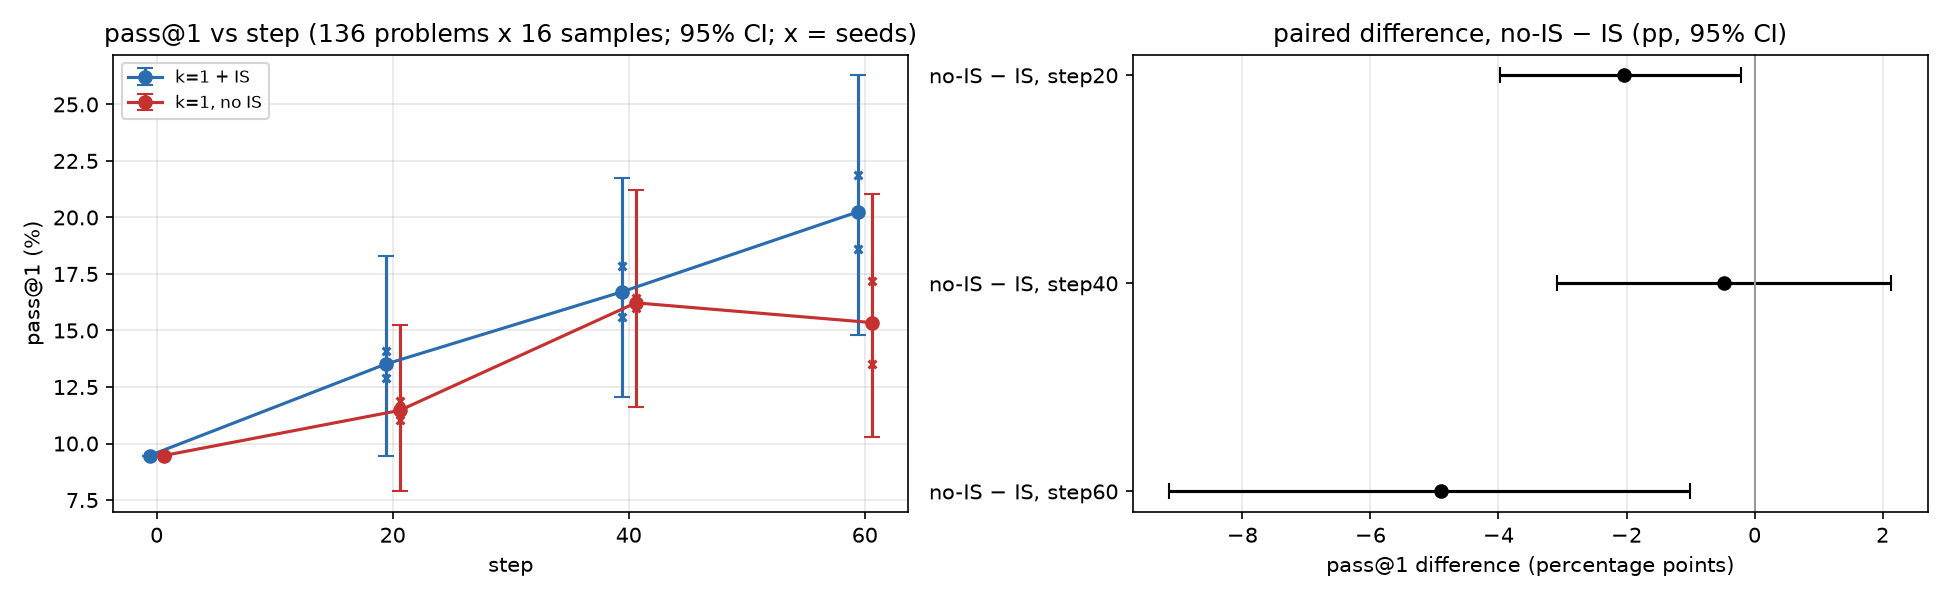
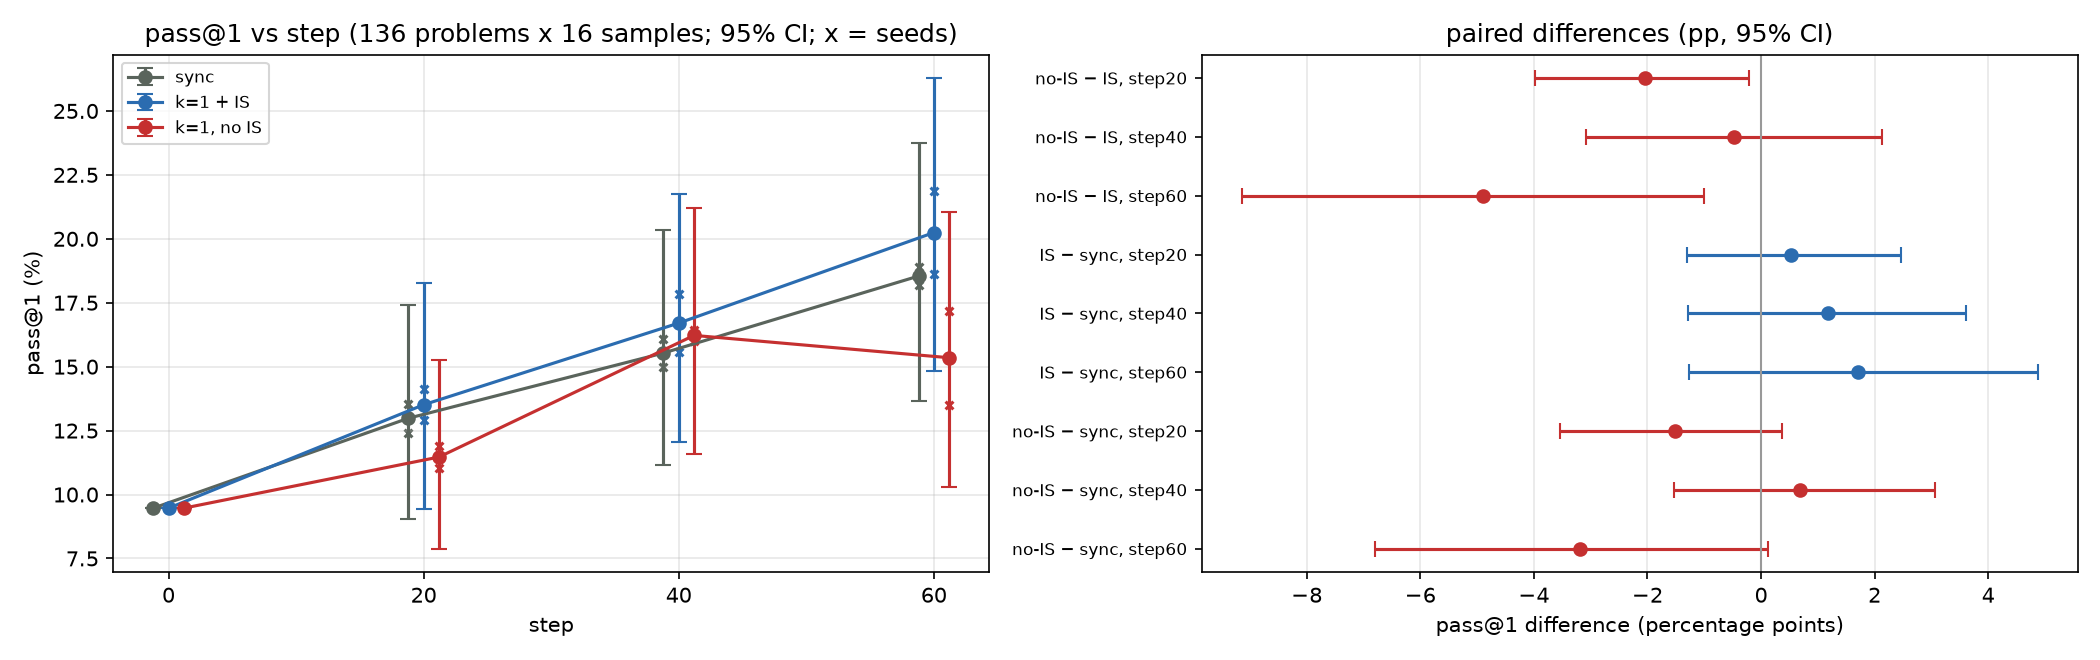
Add 60-step sync baseline: sync vs lag 1 +/- IS at steps 20/40/60, speed, cost; regenerate long_* charts with sync

diff --git a/docs/index.html b/docs/index.html
@@ -206,12 +206,12 @@ pre {
 <section id="tldr">
 <h2>TL;DR</h2>
 <div class="callout"><ul>
-<li><strong>Async at lag 1 is about 1.7× faster than sync, with no loss of accuracy.</strong> It takes 204–211 s per training step, against 359.7 s for sync, and step-20 pass@1 shows no detectable difference (+1.3 pp, 95% CI −1.4 to +4.2).</li>
+<li><strong>Async at lag 1 is about 1.7× faster than sync, with no loss of accuracy, over 60 steps.</strong> With IS it took 186.6 s per training step against 321.1 s for sync (1.72×; 3.0–3.2 h vs 5.3–5.4 h per run). Step-60 pass@1 was <strong>20.2%</strong> against <strong>18.5%</strong> for sync, a difference of +1.7 pp (95% CI −1.3 to +4.9), not significant.</li>
 <li><strong>Lag 1 is as fast as lag 2, because the learner is the bottleneck.</strong> Training a batch (187–194 s) takes longer than generating one (154–158 s), so a second version of lag buys nothing. Accuracy at lag 1 and lag 2 is equivalent within ±3 pp.</li>
-<li><strong>Sync vs async: compared at step 20 only, so far.</strong> In the 20-step rounds, both async arms, with IS and without IS, are within noise of sync on step-20 pass@1 and about 1.7× faster (1.73–1.86× by arm). A 60-step sync baseline has not yet run, so the 60-step round compares IS vs no IS only.</li>
-<li><strong>Keep the importance-sampling (IS) correction.</strong> Over 60 steps (IS vs no IS; no sync baseline yet), the arm with truncated IS reached <strong>20.2%</strong> pass@1, against <strong>15.4%</strong> without it (−4.9 pp, 95% CI −9.2 to −1.0).</li>
+<li><strong>Async + IS matched or beat sync at every checkpoint.</strong> With the 60-step sync baseline, lag 1 + IS − sync is +0.5 pp at step 20 (equivalent at ±3 pp), +1.2 pp at step 40 and +1.7 pp at step 60. Every CI includes zero. In the 20-step rounds, both async arms were also within noise of sync and 1.73–1.86× faster.</li>
+<li><strong>Keep the importance-sampling (IS) correction.</strong> Over 60 steps, the arm with truncated IS reached <strong>20.2%</strong> pass@1, against <strong>15.4%</strong> without it (−4.9 pp, 95% CI −9.2 to −1.0) and 18.5% for sync. No IS − sync was −3.2 pp (95% CI −6.8 to +0.1).</li>
 <li><strong>Without IS there was no collapse, but the arm stopped improving after step 40.</strong> Policy drift came in one short, self-limiting episode per seed, and train reward kept rising. Eval accuracy, though, went from 16.2% at step 40 to 15.4% at step 60, while the IS arm went from 16.7% to 20.2%.</li>
-<li><strong>Total cost: about $162.5</strong> over four rounds: first study ≈ $22.1, lag-2 round $64.08, lag-1 20-step round $21.45, lag-1 60-step round $54.91.</li>
+<li><strong>Total cost: about $204.0</strong> over five budgets: first study ≈ $22.1, lag-2 round $64.08, lag-1 20-step round $21.45, lag-1 60-step round $54.91, 60-step sync baseline $41.54.</li>
 </ul></div>
 </section>
 
@@ -226,11 +226,12 @@ pre {
 <tr><td>async lag 2, no IS</td><td>20</td><td>12.98% [8.46, 18.34]</td><td>198.5</td><td>1.83× same VM</td></tr>
 <tr><td>async lag 1 + IS</td><td>20</td><td>12.80% [8.66, 17.58]</td><td>208.5</td><td>≈ 1.73× (across VMs)</td></tr>
 <tr><td>async lag 1, no IS</td><td>20</td><td>14.50% [9.74, 19.90]</td><td>207.4</td><td>≈ 1.73× (across VMs)</td></tr>
-<tr><td>async lag 1 + IS</td><td>60</td><td><strong>20.24% [14.82, 26.29]</strong></td><td>186.6</td><td>no sync baseline (yet)</td></tr>
-<tr><td>async lag 1, no IS</td><td>60</td><td>15.35% [10.29, 21.05]</td><td>178.8</td><td>no sync baseline (yet)</td></tr>
+<tr><td>sync</td><td>60</td><td>18.54% [13.65, 23.74]</td><td>321.1</td><td>1×</td></tr>
+<tr><td>async lag 1 + IS</td><td>60</td><td><strong>20.24% [14.82, 26.29]</strong></td><td>186.6</td><td>1.72× (same VM type and zone)</td></tr>
+<tr><td>async lag 1, no IS</td><td>60</td><td>15.35% [10.29, 21.05]</td><td>178.8</td><td>1.80× (same VM type and zone)</td></tr>
 </tbody></table></div>
-<p class="footnote">A 60-step sync baseline has not yet run, so the 60-step rows compare IS vs no IS only. Steps get faster over a long run as answers get shorter, so 60-step s/step is not comparable with the 20-step rows.</p>
-<figure class="figure"><img src="charts/long_pass1.png" alt="pass@1 at steps 0, 20, 40 and 60 per arm, and paired no-IS minus IS differences" loading="lazy"/><figcaption class="caption">pass@1 at steps 0, 20, 40 and 60 for lag 1 with and without IS (95% CI; x = seeds), and the paired no-IS − IS difference at each eval.</figcaption></figure>
+<p class="footnote">The 60-step speed-ups compare the 60-step rows with each other. Sync ran on a Flex v6e-4 in europe-west4-a, the same VM type and zone as the lag-1 runs, one day later. Steps get faster over a long run as answers get shorter, so 60-step s/step is not comparable with the 20-step rows.</p>
+<figure class="figure"><img src="charts/long_pass1.png" alt="pass@1 at steps 0, 20, 40 and 60 for sync and lag 1 with and without IS, and paired differences" loading="lazy"/><figcaption class="caption">pass@1 at steps 0, 20, 40 and 60 for sync and for lag 1 with and without IS (95% CI; x = seeds), and the paired differences (no IS − IS, IS − sync, no IS − sync) at each eval.</figcaption></figure>
 <figure class="figure"><img src="charts/k1_speed_idle.png" alt="Seconds per step and idle fractions for all ten 20-step runs" loading="lazy"/><figcaption class="caption">Seconds per step and idle fractions for all ten 20-step runs, grouped by VM pair. Async at lag 1 and lag 2 lands at about the same speed.</figcaption></figure>
 <figure class="figure"><img src="charts/k1_lag_kl.png" alt="Policy versions behind per step, and KL between sampler and trainer" loading="lazy"/><figcaption class="caption">Left: policy versions behind per step (sync 0, lag 1, lag 2). Middle and right: KL(sampler‖trainer) per step for the no-IS arms and for the IS arms and sync.</figcaption></figure>
 </section>
@@ -297,18 +298,22 @@ pre {
 
 <section id="round4">
 <p class="eyebrow">Round 4</p>
-<h2>60 steps at lag 1: IS vs no IS</h2>
-<p>The two lag-1 arms for 60 steps, 2 seeds each, on one Flex-start v6e-4, with evals at steps 20, 40 and 60.</p>
+<h2>60 steps: sync vs lag 1 + IS vs lag 1, no IS</h2>
+<p>The two lag-1 arms for 60 steps, 2 seeds each, on one Flex-start v6e-4, with evals at steps 20, 40 and 60. A sync baseline was added afterwards: the same 60 steps, evals and settings, with plan90's sync config, 2 seeds, on a Flex-start v6e-4 in the same zone.</p>
 <div class="table-wrap"><table class="nowrap">
 <thead><tr><th>Arm</th><th>Step 20</th><th>Step 40</th><th>Step 60</th></tr></thead>
 <tbody>
+<tr><td>sync</td><td>12.98%</td><td>15.53%</td><td>18.54%</td></tr>
 <tr><td>lag 1 + IS</td><td>13.51%</td><td>16.70%</td><td><strong>20.24%</strong></td></tr>
 <tr><td>lag 1, no IS</td><td>11.47%</td><td>16.22%</td><td>15.35%</td></tr>
+<tr><td>IS − sync</td><td>+0.5 pp [−1.3, +2.5]</td><td>+1.2 pp [−1.3, +3.6]</td><td>+1.7 pp [−1.3, +4.9]</td></tr>
+<tr><td>no IS − sync</td><td>−1.5 pp [−3.5, +0.4]</td><td>+0.7 pp [−1.5, +3.1]</td><td>−3.2 pp [−6.8, +0.1]</td></tr>
 <tr><td>no IS − IS</td><td>−2.0 pp [−4.0, −0.2]</td><td>−0.5 pp [−3.1, +2.1]</td><td><strong>−4.9 pp [−9.2, −1.0]</strong></td></tr>
 </tbody></table></div>
 <p class="takeaway">Without IS the drift did not become instability. Both no-IS seeds had one KL excursion at steps 32–40 (peaks 4.6e-3 and 1.8e-3), recovered within about 5 steps, and went past the gradient clip on only 3 of 120 steps. But the no-IS arm plateaued after step 40, while the IS arm kept gaining, reaching +10.8 pp over base. Keep truncated IS.</p>
-<figure class="figure"><img src="charts/long_kl_ratio_grad.png" alt="KL, max IS ratio and gradient norm per step over 60 steps" loading="lazy"/><figcaption class="caption">KL(sampler‖trainer), max IS ratio and pre-clip gradient norm per step (dotted: clip at 1.0). Red = no IS, blue = IS; solid = seed 0, dashed = seed 1.</figcaption></figure>
-<figure class="figure"><img src="charts/long_speed.png" alt="Seconds per step and wall-clock to N steps, 60-step runs" loading="lazy"/><figcaption class="caption">Seconds per step and wall-clock to N steps, all four runs on one VM.</figcaption></figure>
+<p class="takeaway">Sync learned steadily, reaching 18.5% at step 60 (+9.1 pp over base) with a flat KL (3.5–4.7e-4), slightly behind lag 1 + IS at every checkpoint, though never significantly. It took 321 s/step against 187 s/step for lag 1 + IS: 5.3–5.4 h per run against 3.0–3.2 h, 1.72× faster for async.</p>
+<figure class="figure"><img src="charts/long_kl_ratio_grad.png" alt="KL, max IS ratio and gradient norm per step over 60 steps" loading="lazy"/><figcaption class="caption">KL(sampler‖trainer), max IS ratio and pre-clip gradient norm per step (dotted: clip at 1.0). Grey = sync, blue = IS, red = no IS; solid = seed 0, dashed = seed 1.</figcaption></figure>
+<figure class="figure"><img src="charts/long_speed.png" alt="Seconds per step and wall-clock to N steps, 60-step runs" loading="lazy"/><figcaption class="caption">Seconds per step and wall-clock to N steps for all six 60-step runs. The four lag-1 runs shared one VM; the two sync runs ran a day later on a VM of the same type in the same zone.</figcaption></figure>
 </section>
 
 <section id="details">
@@ -322,7 +327,7 @@ pre {
 <li><strong>Drift is not tied to a seed.</strong> In round 3, no-IS seed 0 began drifting at step 17; in round 4 it was flat until step 31, and seed 1, which never drifted in 20 steps, drifted at steps 32–40.</li>
 <li><strong>Truncation weakens the reward signal.</strong> 87% of base-model samples hit the 6,144-token cap in the pilot profile, and 67–75% of round-2 training rollouts were truncated and earned zero reward.</li>
 <li><strong>Answer length is a confounder.</strong> By step 60, no-IS seed 0's eval answers averaged 2,601 tokens (14% truncated), against 5,258 tokens (73%) at step 40, and its pass@1 fell from 16.0% to 13.5%. IS seed 0 also shortened (4,492 tokens, 19% truncated) but gained accuracy (17.8% to 21.9%). The eval cannot tell "learned to be concise" from "learned to stop early".</li>
-<li><strong>Speed across VMs.</strong> Round 2 ran on Spot VMs in two regions; rounds 3 and 4 on one Flex VM on other days. Speed is compared within a VM wherever possible. The lag-1 vs sync ratio (≈ 1.73×) crosses VMs. The two sync runs agreed to 0.1% across regions (359.6 vs 360.0 s/step), so the VM effect looks small.</li>
+<li><strong>Speed across VMs.</strong> Round 2 ran on Spot VMs in two regions; rounds 3 and 4 on one Flex VM on other days. The 60-step sync baseline ran a day after round 4 on a Flex VM of the same type and zone, so the 60-step sync vs async speed-up crosses machines; its sync s/step at steps 1–20 (about 350 s) matches round 2's sync (360 s) within 3%. Speed is compared within a VM wherever possible. The lag-1 vs sync ratio (≈ 1.73×) crosses VMs. The two sync runs agreed to 0.1% across regions (359.6 vs 360.0 s/step), so the VM effect looks small.</li>
 <li><strong>Async run-to-run noise.</strong> async-IS seed 1 was 9% slower than its no-IS partner on the same VM. IS adds no compute, and that run trained 4% more tokens, so treat 9% as the noise floor for async s/step.</li>
 <li><strong>First study.</strong> Its zone was asia-northeast1-b because the preferred zones had no capacity. About 88% of samples hit the 3,072-token cap, and only 3–4 of 16 prompt groups per batch carried gradient. The eager learner ran at about 1,650 tok/s (about 3% MFU), because <span class="mono">torch.compile</span> failed on a view-stride error in Qwen3.5's Gated DeltaNet layers.</li>
 <li><strong>Sampling seeds.</strong> vLLM on TorchTPU has no per-request seeds, so runs are reproducible only up to batch-scheduling nondeterminism.</li>
@@ -338,14 +343,16 @@ pre {
 <tr><td>2. 20 steps, lag 2 (plan90)</td><td>Spot v6e-4: asia-south1-c $6.25/h, europe-west4-a $7.13/h</td><td>5.65 + 3.76</td><td>$64.08</td><td>$90</td></tr>
 <tr><td>3. 20 steps, lag 1 (plan25k1)</td><td>Flex-start v6e-4, europe-west4-a, $5.40/h</td><td>3.89</td><td>$21.45</td><td>$25</td></tr>
 <tr><td>4. 60 steps, lag 1 (plan65k1long)</td><td>Flex-start v6e-4, europe-west4-a, $5.40/h</td><td>10.16</td><td>$54.91</td><td>$65</td></tr>
-<tr><td><strong>Total</strong></td><td></td><td></td><td><strong>≈ $162.5</strong></td><td></td></tr>
+<tr><td>4b. 60 steps, sync baseline (plan55sync60)</td><td>Flex-start v6e-4, europe-west4-a, $5.40/h</td><td>7.68</td><td>$41.54</td><td>$55</td></tr>
+<tr><td><strong>Total</strong></td><td></td><td></td><td><strong>≈ $204.0</strong></td><td></td></tr>
 </tbody></table></div>
-<p>Rounds 2–4 come from each round's GCS spend ledger. Create-to-delete times give $21.33 for round 3 and $54.89 for round 4. Capacity requests that were never granted cost $0. Everything was deleted except the compile-cache bucket (about $0.08/month).</p>
+<p>Rounds 2–4 come from each round's GCS spend ledger. Create-to-delete times give $21.33 for round 3, $54.89 for round 4 and $41.49 for the sync baseline. Capacity requests that were never granted cost $0. Everything was deleted except the compile-cache bucket (about $0.08/month).</p>
 <ul>
 <li><strong>Round 1:</strong> setup, smoke tests, debugging and learner benchmarks ≈ $4.8; 4 training runs plus 9 eval passes ≈ $17.0. Per 40-step run on 2 chips: sync ≈ $3.9, async ≈ $2.5.</li>
 <li><strong>Round 2:</strong> asia-south1-c VM $35.32 (pilot and base eval ≈ $8.3, OOM restart ≈ $0.9, pair p2 ≈ $14.4, pair p3 ≈ $11.7); europe-west4-a VM $26.79 (waiting for the pilot and the OOM restart ≈ $10.0, pair p1 ≈ $16.8); aborted early boots $0.98; GKE fallback cluster $0.97; CPU dry run $0.02.</li>
 <li><strong>Round 3:</strong> Flex VM 3.89 h, $21.03 (setup ≈ $0.8, pair pA ≈ $9.9, pair pB ≈ $10.3); a Spot VM deleted by the budget guard before setup finished, $0.29.</li>
 <li><strong>Round 4:</strong> Flex VM 10.16 h, $54.89 (setup ≈ $0.9, pair pA ≈ $25.6 over 4.73 h, pair pB ≈ $27.7 over 5.13 h, gaps and teardown ≈ $0.7). Each pair includes 60 steps plus 3 evals per run.</li>
+<li><strong>Round 4b (sync baseline):</strong> Flex VM 7.68 h, $41.49 (setup ≈ $1.2; pair ≈ $39.9 over 7.38 h, which is 5.4 h of training, then 1.2–2.0 h for each run's 3 evals; teardown ≈ $0.4). The cost model priced the pair at a P90 of $44.75 before launch.</li>
 </ul>
 </details>
 
@@ -421,6 +428,9 @@ pre {
 <div class="table-wrap"><table class="nowrap">
 <thead><tr><th>Arm</th><th>Step 20</th><th>Step 40</th><th>Step 60</th></tr></thead>
 <tbody>
+<tr><td>sync</td><td>12.98% [9.03, 17.39]</td><td>15.53% [11.14, 20.34]</td><td>18.54% [13.65, 23.74]</td></tr>
+<tr><td>…seeds (s0, s1)</td><td>13.56, 12.41</td><td>16.08, 14.98</td><td>18.89, 18.20</td></tr>
+<tr><td>…gain over base</td><td>+3.5 pp [+1.4, +5.7]</td><td>+6.1 pp [+3.8, +8.6]</td><td>+9.1 pp [+6.2, +12.2]</td></tr>
 <tr><td>lag 1 + IS</td><td>13.51% [9.44, 18.29]</td><td>16.70% [12.04, 21.76]</td><td>20.24% [14.82, 26.29]</td></tr>
 <tr><td>…seeds (s0, s1)</td><td>14.11, 12.91</td><td>17.83, 15.58</td><td>21.88, 18.61</td></tr>
 <tr><td>…gain over base</td><td>+4.0 pp [+1.8, +6.5]</td><td>+7.2 pp [+4.4, +10.5]</td><td>+10.8 pp [+7.2, +14.9]</td></tr>
@@ -428,21 +438,25 @@ pre {
 <tr><td>…seeds (s0, s1)</td><td>11.03, 11.90</td><td>15.99, 16.45</td><td>13.51, 17.19</td></tr>
 <tr><td>…gain over base</td><td>+2.0 pp [+0.1, +3.9]</td><td>+6.8 pp [+4.3, +9.5]</td><td>+5.9 pp [+2.3, +9.5]</td></tr>
 </tbody></table></div>
-<p class="footnote">90% CIs for no IS − IS: [−3.7, −0.5] at step 20, [−2.7, +1.7] at step 40 (equivalent at ±3 pp), [−8.5, −1.6] at step 60. Per seed at step 60: −8.4 pp (seed 0), −1.4 pp (seed 1).</p>
+<p class="footnote">90% CIs for no IS − IS: [−3.7, −0.5] at step 20, [−2.7, +1.7] at step 40 (equivalent at ±3 pp), [−8.5, −1.6] at step 60. Per seed at step 60: −8.4 pp (seed 0), −1.4 pp (seed 1). 90% CIs for IS − sync: [−1.0, +2.1] at step 20 (equivalent at ±3 pp), [−0.9, +3.2] at step 40, [−0.8, +4.3] at step 60. 90% CIs for no IS − sync: [−3.2, +0.1] at step 20, [−1.2, +2.6] at step 40 (equivalent at ±3 pp), [−6.2, −0.3] at step 60.</p>
 <h3>Stability per run</h3>
 <div class="table-wrap"><table class="nowrap">
 <thead><tr><th>Run</th><th>KL 1–10</th><th>11–20</th><th>21–40</th><th>41–60</th><th>Max KL (step)</th><th>KL at 60</th><th>Max IS ratio (step)</th><th>Clip hits / 60</th><th>Max grad norm</th><th>Entropy 1–10 → 41–60</th><th>Train reward 1–10 → 41–60</th></tr></thead>
 <tbody>
+<tr><td>lsync-s0</td><td>3.7e-4</td><td>3.5e-4</td><td>3.7e-4</td><td>3.7e-4</td><td>4.7e-4 (60)</td><td>4.7e-4</td><td>4.90 (60)</td><td>0</td><td>0.91</td><td>0.359 → 0.348</td><td>0.263 → 0.455</td></tr>
+<tr><td>lsync-s1</td><td>3.7e-4</td><td>3.7e-4</td><td>3.6e-4</td><td>3.6e-4</td><td>4.0e-4 (7)</td><td>3.6e-4</td><td>2.94 (25)</td><td>2 (47, 48)</td><td>1.25</td><td>0.363 → 0.323</td><td>0.228 → 0.391</td></tr>
 <tr><td>lk1is-s0</td><td>3.8e-4</td><td>3.9e-4</td><td>3.9e-4</td><td>4.7e-4</td><td>5.7e-4 (44)</td><td>5.2e-4</td><td>2.85 (4)</td><td>0</td><td>0.96</td><td>0.361 → 0.382</td><td>0.252 → 0.499</td></tr>
 <tr><td>lk1is-s1</td><td>3.7e-4</td><td>3.7e-4</td><td>3.4e-4</td><td>3.6e-4</td><td>4.2e-4 (46)</td><td>3.6e-4</td><td>6.80 (59)</td><td>0</td><td>0.82</td><td>0.351 → 0.256</td><td>0.216 → 0.416</td></tr>
 <tr><td>lk1nois-s0</td><td>3.8e-4</td><td>3.7e-4</td><td><strong>1.0e-3</strong></td><td>5.1e-4</td><td><strong>4.6e-3 (37)</strong></td><td>8.6e-4</td><td><strong>11.8 (37)</strong></td><td><strong>2</strong> (36, 37)</td><td><strong>1.31</strong></td><td>0.358 → 0.282</td><td>0.234 → 0.432</td></tr>
 <tr><td>lk1nois-s1</td><td>3.7e-4</td><td>3.8e-4</td><td><strong>7.1e-4</strong></td><td>3.6e-4</td><td><strong>1.8e-3 (35)</strong></td><td>3.3e-4</td><td><strong>12.4 (40)</strong></td><td><strong>1</strong> (48)</td><td><strong>1.05</strong></td><td>0.353 → 0.291</td><td>0.235 → 0.449</td></tr>
 </tbody></table></div>
-<p class="footnote">A clip hit is a step whose pre-clip gradient norm exceeded 1.0. Over its last 8 steps lk1nois-s0's KL climbed again, from 3.9e-4 to 8.6e-4.</p>
+<p class="footnote">A clip hit is a step whose pre-clip gradient norm exceeded 1.0. Over its last 8 steps lk1nois-s0's KL climbed again, from 3.9e-4 to 8.6e-4. Sync trains on fresh data (lag 0), so its KL is the numerics floor; its IS ratio is applied (truncated at 2), as in plan90's sync arm.</p>
 <h3>Answer length</h3>
 <div class="table-wrap"><table class="nowrap">
 <thead><tr><th>Run</th><th>Train truncated 1–10 → 21–40 → 51–60</th><th>Tokens/seq 1–10 → 51–60</th><th>Eval truncated, tokens at 20 / 40 / 60</th></tr></thead>
 <tbody>
+<tr><td>lsync-s0</td><td>71% → 54% → 35%</td><td>5,284 → 4,113</td><td>75%, 5,412 / 69%, 5,276 / 57%, 4,953</td></tr>
+<tr><td>lsync-s1</td><td>75% → 56% → 46%</td><td>5,431 → 4,591</td><td>76%, 5,432 / 65%, 5,093 / 69%, 5,235</td></tr>
 <tr><td>lk1is-s0</td><td>73% → 43% → 18%</td><td>5,326 → 4,042</td><td>71%, 5,304 / 57%, 5,126 / 19%, 4,492</td></tr>
 <tr><td>lk1is-s1</td><td>78% → 56% → 55%</td><td>5,463 → 5,032</td><td>77%, 5,418 / 73%, 5,387 / 71%, 5,448</td></tr>
 <tr><td>lk1nois-s0</td><td>73% → 49% → 21%</td><td>5,359 → 3,394</td><td>73%, 5,301 / 73%, 5,258 / 14%, 2,601</td></tr>
@@ -452,14 +466,16 @@ pre {
 <div class="table-wrap"><table class="nowrap">
 <thead><tr><th>Arm</th><th>s/step, mean (seeds)</th><th>Steps 1–10</th><th>11–20</th><th>21–40</th><th>41–60</th><th>Gen s/batch</th><th>Train s/step</th><th>Rollout idle</th><th>Learner idle</th></tr></thead>
 <tbody>
+<tr><td>sync</td><td>321.1 (321.9, 320.2)</td><td>381</td><td>320–322</td><td>313–319</td><td>296–297</td><td>146.5</td><td>169.6</td><td>53.8%</td><td>46.2%</td></tr>
 <tr><td>lag 1 + IS</td><td>186.6 (181.8, 191.5)</td><td>236–239</td><td>184–193</td><td>174–184</td><td>160–175</td><td>147.6</td><td>176.4</td><td>20.0%</td><td>3.8%</td></tr>
 <tr><td>lag 1, no IS</td><td>178.8 (173.8, 183.8)</td><td>245–249</td><td>173–183</td><td>164–181</td><td>149–154</td><td>143.4</td><td>167.0</td><td>18.6%</td><td>4.6%</td></tr>
 </tbody></table></div>
-<p class="footnote">Every run trained at lag 1 on 59 of 60 steps. Within each pair the no-IS run was about 4% faster because it trained fewer tokens per step (293–299k vs 322–339k over steps 41–60).</p>
-<h3>Step-20 replication vs round 3</h3>
+<p class="footnote">Every run trained at lag 1 on 59 of 60 steps. Within each pair the no-IS run was about 4% faster because it trained fewer tokens per step (293–299k vs 322–339k over steps 41–60). Sync trained at lag 0 on all 60 steps. Wall-clock to 60 steps: sync 321.9 and 320.2 min, lag 1 + IS 181.8 and 191.5 min, lag 1 no IS 173.8 and 183.8 min. A sync step pays generation plus training (146.5 + 169.6 s); lag 1 overlaps them, so each side idles 46–54% under sync and 4–20% under lag 1.</p>
+<h3>Step-20 replication vs the 20-step rounds</h3>
 <div class="table-wrap"><table class="nowrap">
-<thead><tr><th>Arm</th><th>Round 3</th><th>Round 4</th><th>Difference (95% CI)</th></tr></thead>
+<thead><tr><th>Arm</th><th>20-step round</th><th>60-step run</th><th>Difference (95% CI)</th></tr></thead>
 <tbody>
+<tr><td>sync (vs round 2)</td><td>11.49% (11.72, 11.26)</td><td>12.98% (13.56, 12.41)</td><td>+1.5 pp [−0.4, +3.6]</td></tr>
 <tr><td>lag 1 + IS</td><td>12.80% (14.25, 11.35)</td><td>13.51% (14.11, 12.91)</td><td>+0.7 pp [−2.1, +3.6]</td></tr>
 <tr><td>lag 1, no IS</td><td>14.50% (16.36, 12.64)</td><td>11.47% (11.03, 11.90)</td><td>−3.0 pp [−6.3, 0.0]</td></tr>
 </tbody></table></div>
@@ -507,6 +523,7 @@ pre {
 <li><strong>Round 2 (plan90):</strong> results commit <span class="mono">df381ca</span>; data in <span class="mono">rl/results/plan90/</span>. VMs <span class="mono">qrl-bc4a-s-ew4a</span> (europe-west4-a, pair p1) and <span class="mono">qrl-bc4a-s-as1c</span> (asia-south1-c, pairs p2 then p3). Analysis: <span class="mono">qrl.report_plan90</span>.</li>
 <li><strong>Round 3 (plan25k1):</strong> results commit <span class="mono">2f9ce9b</span>; data in <span class="mono">rl/results/plan25k1/</span>. VM <span class="mono">qrl-bc4a-x2-ew4a</span> (europe-west4-a). Analysis: <span class="mono">qrl.report_plan25k1</span>.</li>
 <li><strong>Round 4 (plan65k1long):</strong> results commit <span class="mono">5c22a8e</span>; data in <span class="mono">rl/results/plan65k1long/</span>. VM <span class="mono">qrl-bc4a-x2-ew4a</span> (europe-west4-a). Analysis: <span class="mono">qrl.report_long</span>.</li>
+<li><strong>Round 4b (plan55sync60, sync baseline):</strong> results commit <span class="mono">d54271e</span>; data in <span class="mono">rl/results/plan55sync60/</span>, with the combined three-arm report in <span class="mono">report.json</span>. VM <span class="mono">qrl-bc4a-x2-ew4a</span> (europe-west4-a, Flex). Analysis: <span class="mono">qrl.report_long --root rl/results/plan65k1long/raw rl/results/plan55sync60/raw</span>.</li>
 <li><strong>Cleanup:</strong> every <span class="mono">qrl-bc4a-*</span> VM, queued request, GKE cluster, Cloud Run job and Scheduler job was deleted after each round. Only the compile-cache bucket <span class="mono">gs://qrl-bc4a-compile-cache-tpu-builders-509006</span> is kept.</li>
 </ul>
 <pre><code># on a v6e-4 VM with the vllm/vllm-torchtpu:v0.32.0 container named `qrl`
